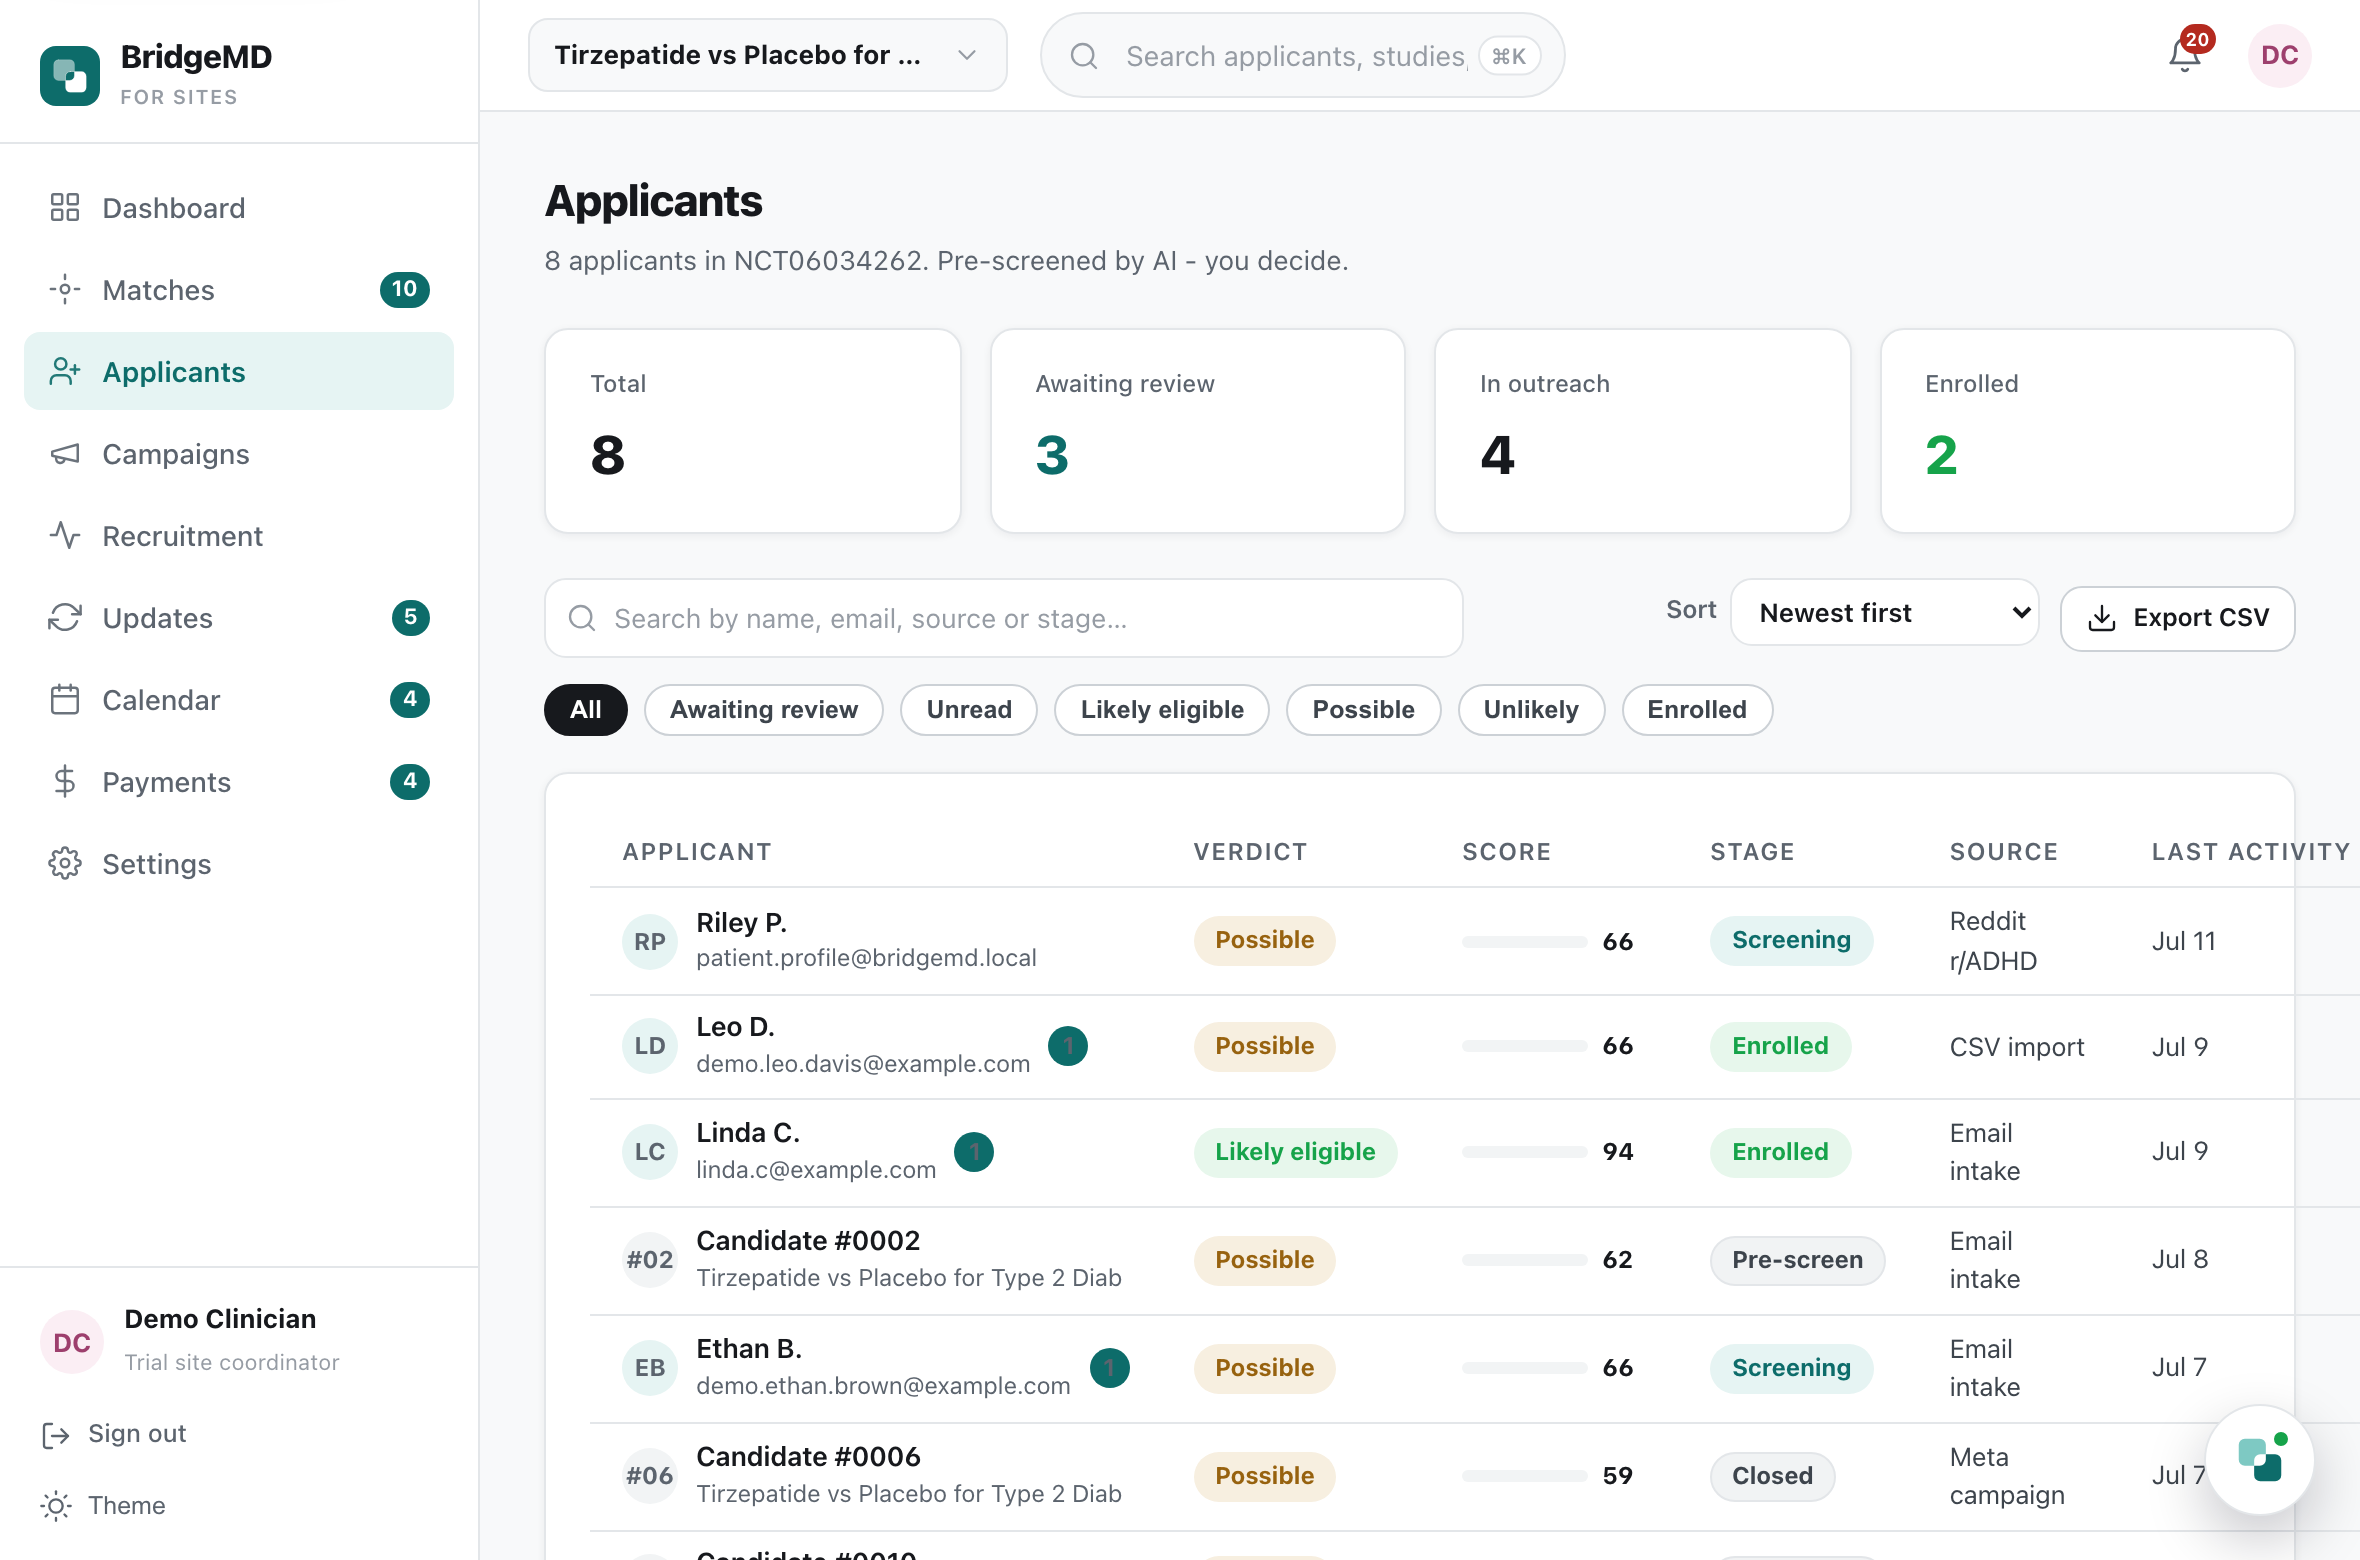
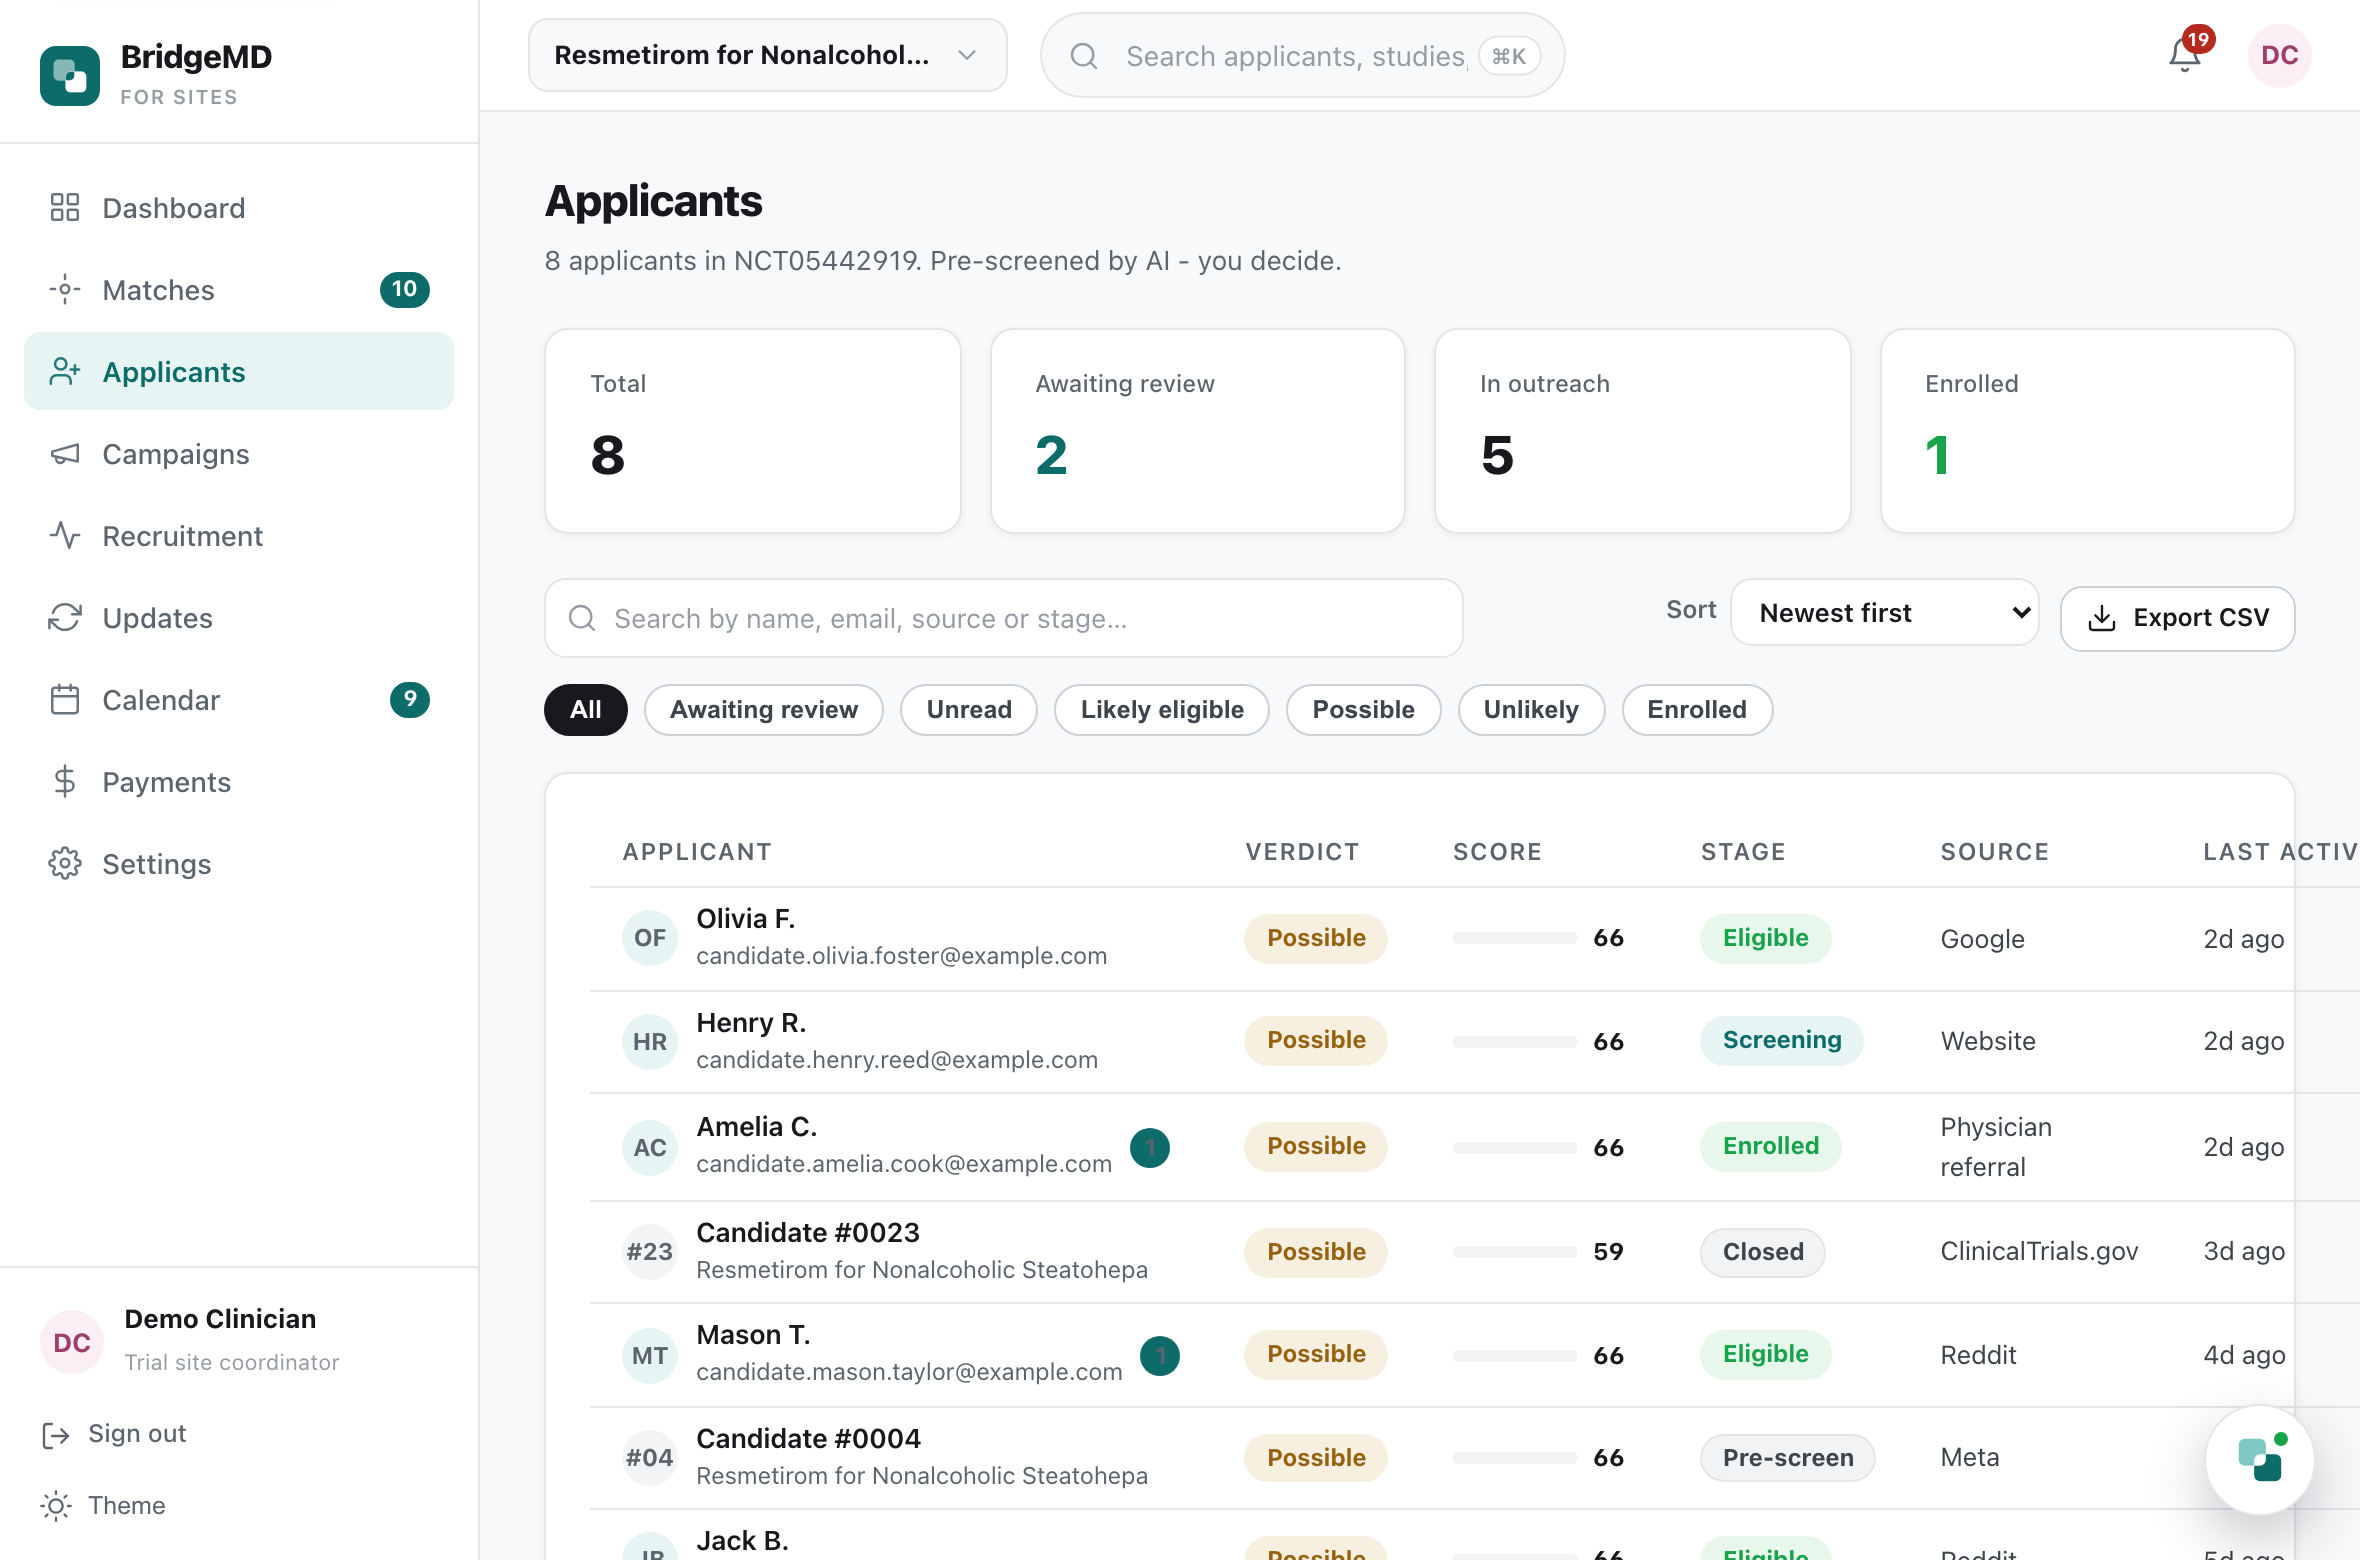
Balance/tracker: make the demo show a real, working picture
- Seed applicants across real acquisition channels (ctgov, referral, web,
  meta/google/reddit, records) instead of one flat "demo" source
- Attribute paid-channel leads to their campaign so campaign-tracked is real
- Roll up per-study targets into the "All studies" view (no more blank target)
- Seed enrollment targets when the Balance page loads in demo
- Refresh product-tour screenshots with the populated data

diff --git a/web/db.py b/web/db.py
@@ -5176,6 +5176,40 @@ def seed_demo_campaigns(user_id):
         create_placement(cid, label=place, channel=place_ch)
 
 
+def seed_demo_lead_attribution(user_id):
+    """Tie demo applicants that arrived from a paid channel (meta/google/reddit)
+    back to the matching campaign, so the recruitment tracker shows real
+    campaign attribution instead of '0 campaign-tracked'. Honest by construction:
+    only leads whose source IS that channel get attributed. No-op once any lead
+    is already attributed."""
+    if not user_id:
+        return
+    db = get_db()
+    if db.execute(
+            "SELECT 1 FROM leads WHERE campaign_id IS NOT NULL LIMIT 1").fetchone():
+        return
+    camps = db.execute(
+        "SELECT id, nct, channel FROM campaigns WHERE user_id = ?",
+        (user_id,)).fetchall()
+    if not camps:
+        return
+    by_channel = {}
+    for c in camps:
+        by_channel.setdefault((c["channel"] or "").lower(), []).append(c)
+    paid = {"meta", "google", "reddit"}
+    n = 0
+    for l in db.execute("SELECT id, nct, source FROM leads").fetchall():
+        ch = (l["source"] or "").strip().lower()
+        if ch not in paid or ch not in by_channel:
+            continue
+        opts = by_channel[ch]
+        cid = next((c["id"] for c in opts if c["nct"] == l["nct"]), opts[0]["id"])
+        db.execute("UPDATE leads SET campaign_id = ? WHERE id = ?", (cid, l["id"]))
+        n += 1
+    if n:
+        db.commit()
+
+
 def seed_demo_leads():
     """Populate clearly-labelled DEMO candidates so the study-team review board
     shows a full end-to-end picture before any real applicants arrive.
@@ -5189,8 +5223,17 @@ def seed_demo_leads():
         def at(days_ago):
             return (base - dt.timedelta(days=days_ago)).strftime("%Y-%m-%d %H:%M")
 
-        for s in _demo_lead_specs():
+        # Spread applicants across realistic acquisition channels so the source
+        # mix + campaign attribution on the tracker read like a live site, not a
+        # single "demo" bucket. Organic channels dominate; paid channels (meta/
+        # google/reddit) are the ones later tied to a campaign (campaign-tracked).
+        sources = ["ctgov", "referral", "web", "meta", "ctgov", "google",
+                   "web", "referral", "reddit", "ctgov", "emr", "meta",
+                   "web", "google", "ctgov", "referral", "web", "reddit"]
+
+        for i, s in enumerate(_demo_lead_specs()):
             created = at(s["days"])
+            source = s.get("source") or sources[i % len(sources)]
             decided = at(s.get("accepted_days") or s.get("declined_days") or 0) \
                 if (s.get("accepted_days") or s.get("declined_days")) else ""
             rec = _demo_record(s["condition"], s["age"], s["sex"]) \
@@ -5207,7 +5250,7 @@ def seed_demo_leads():
                 (gen_token(), gen_token(), _site_token_expiry(), 0,
                  "demo-" + gen_token(), s["nct"], s["title"],
                  s["condition"], s["location"], s["site"], s["name"], s["email"],
-                 s["phone"], s["age"], s["sex"], "", 1, "demo", s["status"],
+                 s["phone"], s["age"], s["sex"], "", 1, source, s["status"],
                  s.get("records", 0), rec, json.dumps(s["screener"]),
                  json.dumps(s["elig"]), s.get("decision", ""),
                  s.get("reason", ""), decided, s.get("revealed", 0),
@@ -5495,6 +5538,8 @@ def ensure_demo_claim_volume(user_id, minimum_rows=18):
         }
         rec = _demo_record(cond, str(30 + (idx % 35)), "female" if idx % 2 else "male") \
             if records_connected else ""
+        vol_source = ["ctgov", "web", "referral", "google", "web", "meta",
+                      "ctgov", "reddit", "referral", "web"][idx % 10]
         db.execute(
             """INSERT INTO leads
                (token, site_token, site_token_expires_at, site_token_revoked,
@@ -5507,7 +5552,7 @@ def ensure_demo_claim_volume(user_id, minimum_rows=18):
              f"seeded-volume-{idx}", nct, title_for.get(nct, nct), cond, city,
              "Trial Site", f"Candidate {idx}", f"candidate.queue.{idx}@example.com",
              f"+1 416 555 {2000 + idx:04d}", str(30 + (idx % 35)),
-             "female" if idx % 2 else "male", "", 1, "demo", status,
+             "female" if idx % 2 else "male", "", 1, vol_source, status,
              json.dumps({"travel": "yes", "other_trial": "no",
                          "pregnancy": "no", "consent_capable": "yes"}),
              json.dumps(elig), records_connected, rec, decision,
@@ -5597,7 +5642,7 @@ def seed_demo_patient_apps(applicant_token):
             (gen_token(), gen_token(), _site_token_expiry(), 0, applicant_token,
              s["nct"], s["title"], s["condition"], s["location"], s["site"],
              "Jordan Blake", "jordan.blake@bridgemd.local", "+1 416 555 0110",
-             "31", "female", "", 1, "demo", s["status"],
+             "31", "female", "", 1, "web", s["status"],
              json.dumps({"travel": "yes", "other_trial": "no",
                          "pregnancy": "na", "consent_capable": "yes"}),
              json.dumps({

diff --git a/web/app.py b/web/app.py
@@ -523,6 +523,10 @@ def _seed_demo_surfaces(user_id=None):
     except Exception:
         app.logger.exception("demo campaign seeding failed")
     try:
+        db.seed_demo_lead_attribution(user_id)
+    except Exception:
+        app.logger.exception("demo lead attribution seeding failed")
+    try:
         db.seed_demo_engagement(user_id)
     except Exception:
         app.logger.exception("demo engagement seeding failed")
@@ -6173,6 +6177,18 @@ def _recruitment_balance_ctx(all_leads, nct):
         cfg = {}
     boundaries = _parse_boundaries(cfg.get("boundaries", "18,30,45,65"))
     total_target = int(cfg.get("total_target") or 0)
+    # "All studies" has no target of its own - roll up each study's target so the
+    # combined view shows real progress vs goal instead of a blank "–".
+    if not nct and not total_target:
+        agg = 0
+        for sid, _t in studies:
+            try:
+                agg += int((json.loads(
+                    db.get_kv(_recruit_targets_key(sid), "") or "{}")
+                ).get("total_target") or 0)
+            except (ValueError, TypeError):
+                pass
+        total_target = agg
     bands = _age_bands(boundaries)
     n_bands = len(bands)
 
@@ -6319,6 +6335,7 @@ def recruitment_balance():
     """Coordinator enrollment-balance page: demographic + source mix vs target,
     SCOPED to the account's claimed studies (not global). Same math as the owner
     tracker; lets a coordinator keep the cohort balanced per protocol."""
+    _seed_demo_targets_if_demo()
     claims = _site_claims()
     leads = analytics._scoped_leads(sorted(claims)) if claims else []
     ctx = _recruitment_balance_ctx(leads, request.args.get("nct"))
